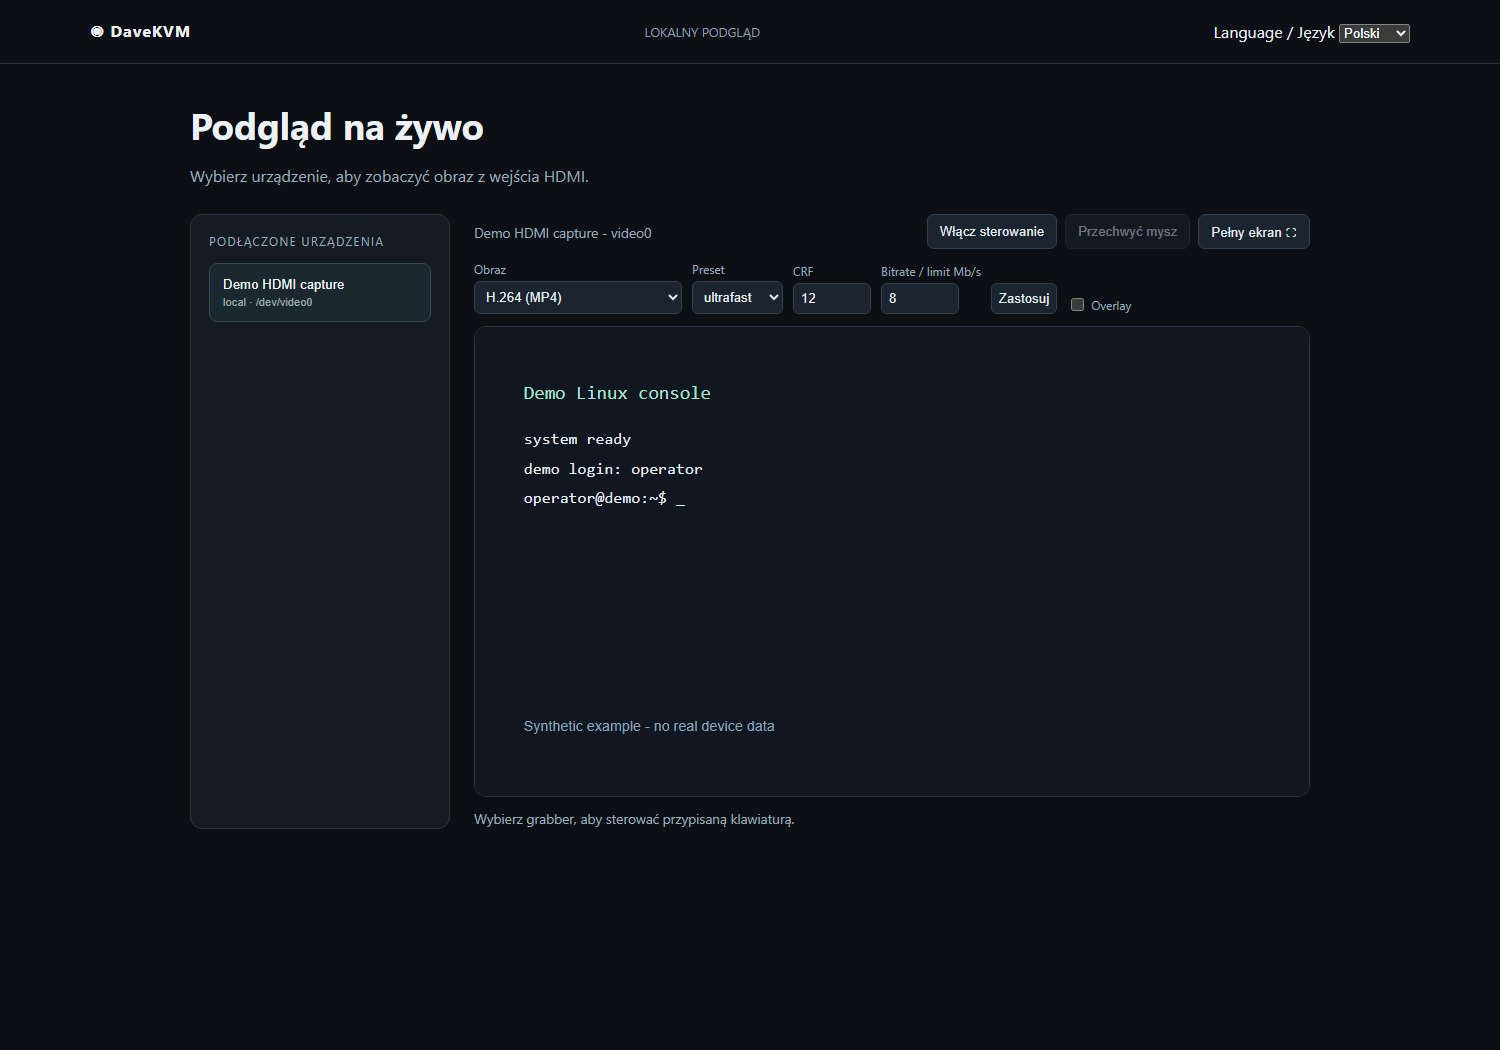
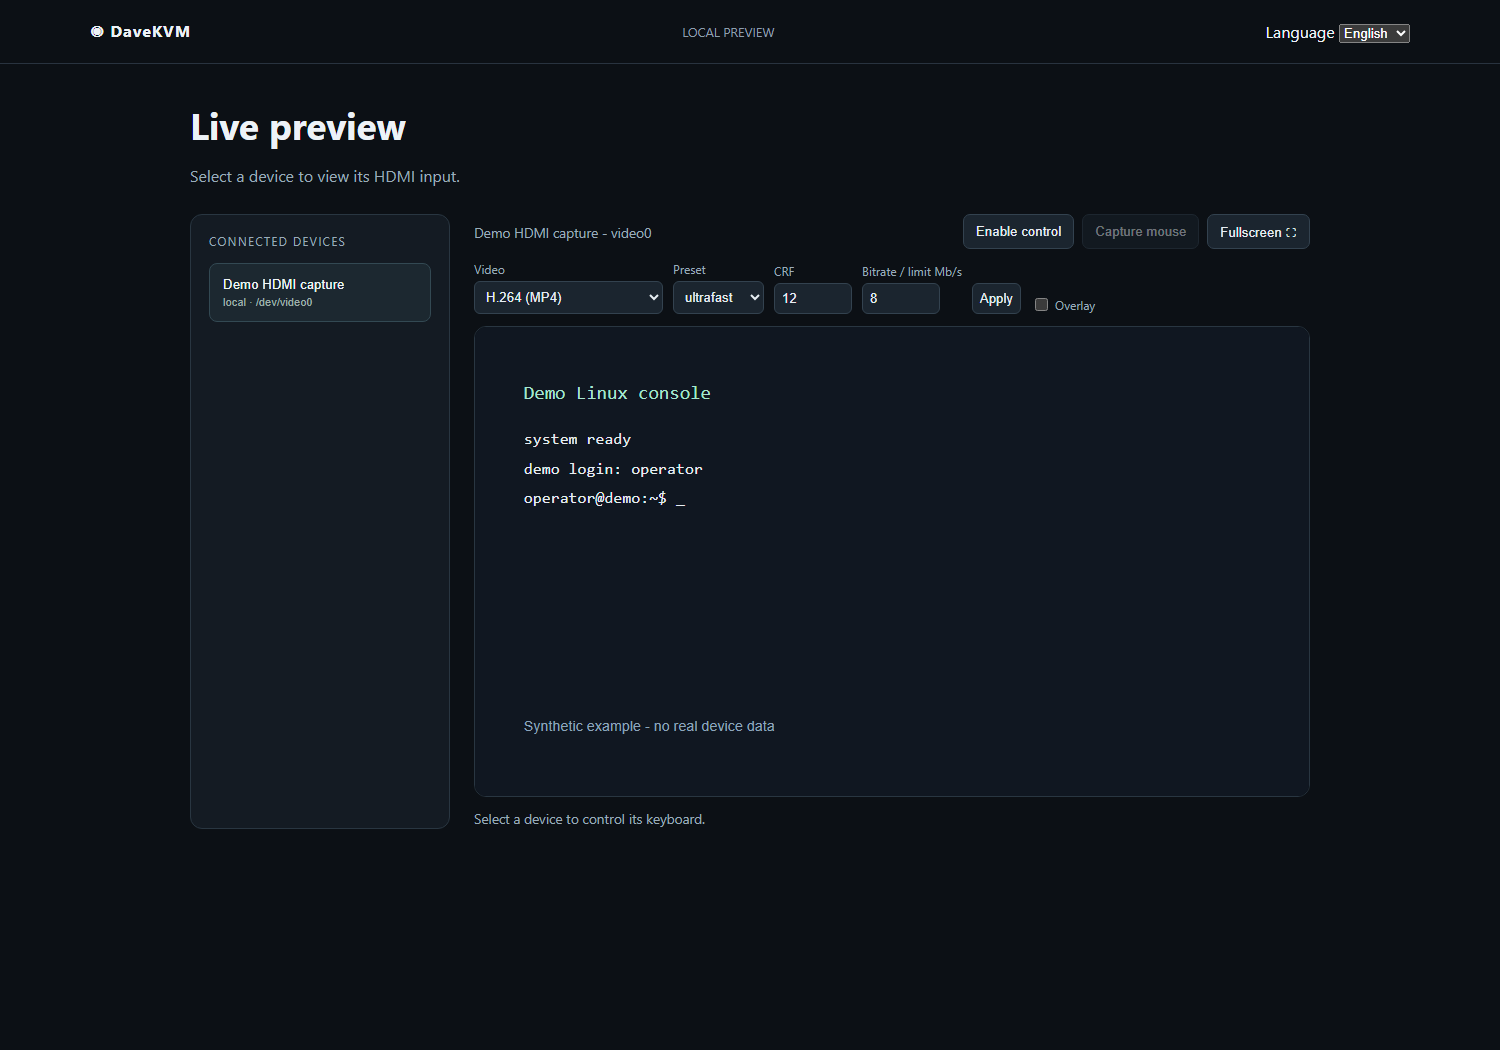
Show English interface in screenshots

diff --git a/index.html b/index.html
@@ -6,6 +6,7 @@
 // SPDX-License-Identifier: MIT
 // Source for the inline translation block in index.html.
 const translations = {
+  'Language / Język': ['Language', 'Sprache', 'Jazyk'],
   'LOKALNY PODGLĄD': ['LOCAL PREVIEW', 'LOKALE VORSCHAU', 'MÍSTNÍ NÁHLED'],
   'Podgląd na żywo': ['Live preview', 'Live-Vorschau', 'Živý náhled'],
   'Wybierz urządzenie, aby zobaczyć obraz z wejścia HDMI.': ['Select a device to view its HDMI input.', 'Wähle ein Gerät für das HDMI-Bild.', 'Vyberte zařízení pro zobrazení vstupu HDMI.'],
@@ -147,6 +148,7 @@ function initializeLanguage() {
 }
 document.addEventListener('DOMContentLoaded', initializeLanguage);
 // END DAVEKVM I18N
+
 
 
 let controllableDevices=new Set();

diff --git a/i18n.js b/i18n.js
@@ -2,6 +2,7 @@
 // SPDX-License-Identifier: MIT
 // Source for the inline translation block in index.html.
 const translations = {
+  'Language / Język': ['Language', 'Sprache', 'Jazyk'],
   'LOKALNY PODGLĄD': ['LOCAL PREVIEW', 'LOKALE VORSCHAU', 'MÍSTNÍ NÁHLED'],
   'Podgląd na żywo': ['Live preview', 'Live-Vorschau', 'Živý náhled'],
   'Wybierz urządzenie, aby zobaczyć obraz z wejścia HDMI.': ['Select a device to view its HDMI input.', 'Wähle ein Gerät für das HDMI-Bild.', 'Vyberte zařízení pro zobrazení vstupu HDMI.'],

diff --git a/tools/make_demo.py b/tools/make_demo.py
@@ -40,7 +40,8 @@ def render_demo(html: str, kind: str) -> str:
     demo = ("<script>setTimeout(()=>{current='video0';controllableDevices.add('video0');"
             "previewReady=true;video.hidden=true;rawImage.hidden=false;rawImage.src="
             + json.dumps(uri) + ";empty.hidden=true;status.textContent='Demo HDMI capture - video0';"
-            "renderControl();},300);</script>")
+            "renderControl();const language=document.querySelector('#language');"
+            "language.value='en';language.dispatchEvent(new Event('change'));},300);</script>")
     if html.count('<script>') != 1 or html.count('</body>') != 1:
         raise ValueError('unexpected panel structure')
     return html.replace('<script>', mock + '<script>', 1).replace('</body>', demo + '</body>', 1)
